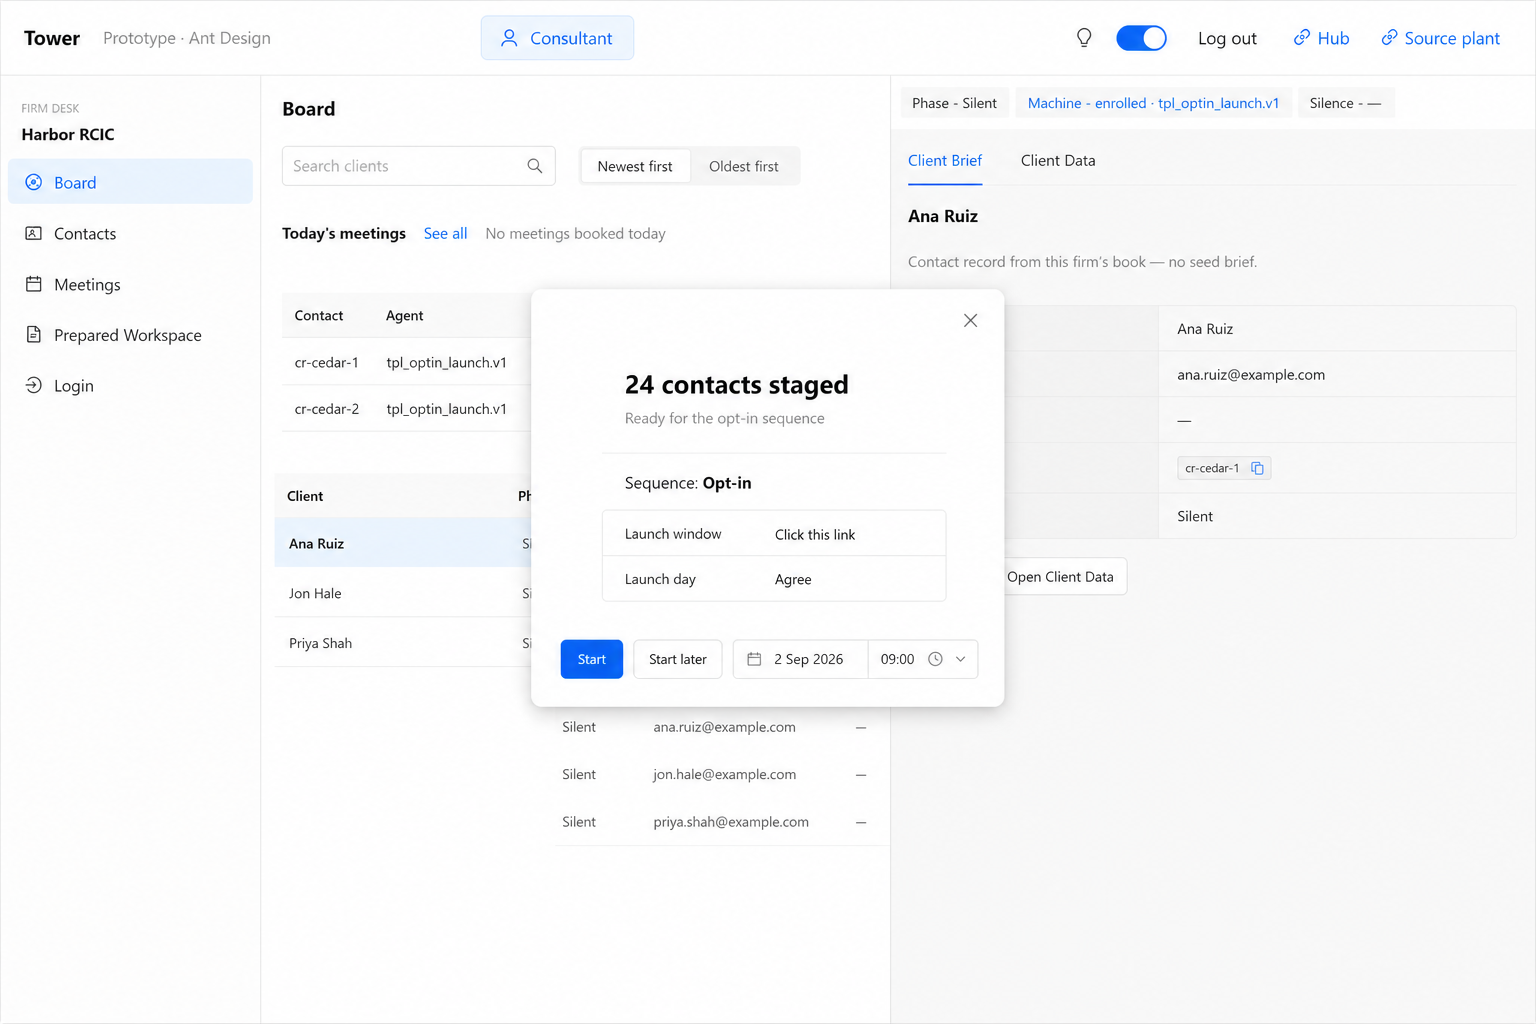
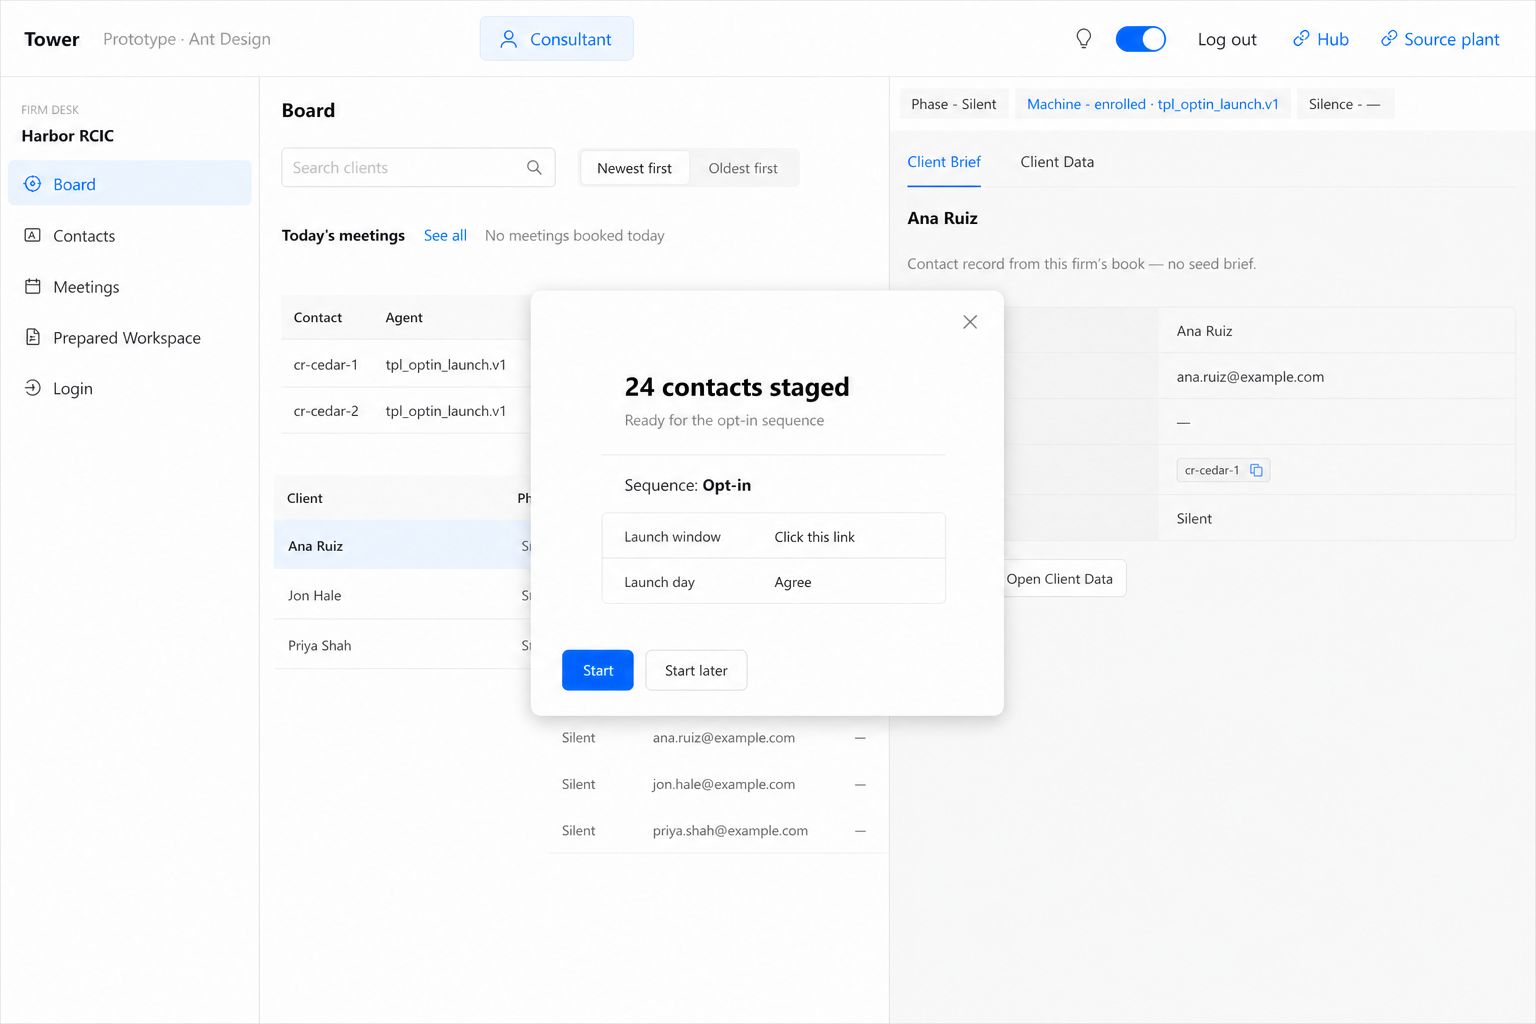
Recut staged plates: nest schedule under Start later; solid bar + Start now
Schedule is hidden until Start later is clicked, then a small popover beneath that button. Minimized bar is solid, with Start now on the right. Still not a packet.

diff --git a/docs/register/CONSULTANT-STAGED-PLATES.md b/docs/register/CONSULTANT-STAGED-PLATES.md
@@ -13,42 +13,55 @@
 
 ## What the founder asked to see
 
-On the consultant workspace: X contacts have been **staged**. A popover. Click it → high-level **sequence** preview. Campaigns and objectives stay obvious as those grains. Bottom: **Start** · **Start later**. Start later **is the schedule** (when it should start automatically) — not “show me later.” **X** at the top closes the popover; the **mode remains minimized at the bottom**.
+On the consultant workspace: X contacts have been **staged**. A popover. High-level **sequence** preview. Campaigns and objectives stay obvious as those grains. Bottom: **Start** · **Start later**. Start later **is the schedule** — not “show me later.” The schedule is **not in view** until Start later is clicked. Then a **small popover beneath Start later** (date + time only, own **X**). Not beside the button. Does not replace the two buttons.
+
+**X** on the big card closes it; the mode **remains at the bottom** as a **solid** bar (cannot miss). **Start now** on the **right** of that bar. Click **Start now** = start. Click the **rest** of the bar = reopen the big popover.
 
 ---
 
-## Canon (two states)
+## Canon (three states)
 
 | # | File | What it is |
 |---|------|------------|
-| **S1** | [`S1-consultant-staged-popover-open.png`](./consultant-blueprint/S1-consultant-staged-popover-open.png) | Open. Count staged. Sequence preview (campaign · objective). **Start** · **Start later**. **X** closes to S2. |
-| **S2** | [`S2-consultant-staged-minimized.png`](./consultant-blueprint/S2-consultant-staged-minimized.png) | After **X**. Mode still at the bottom. Click the bar → S1 again. |
+| **S1** | [`S1-consultant-staged-popover-open.png`](./consultant-blueprint/S1-consultant-staged-popover-open.png) | Open. Count staged. Sequence preview. **Start** · **Start later**. No schedule until S1b. Big **X** closes to S2. |
+| **S1b** | [`S1b-consultant-staged-start-later.png`](./consultant-blueprint/S1b-consultant-staged-start-later.png) | Start later **clicked**. Small popover **beneath** that button: date · time · tiny **X**. Buttons stay. |
+| **S2** | [`S2-consultant-staged-minimized.png`](./consultant-blueprint/S2-consultant-staged-minimized.png) | After big **X**. Solid bar at the bottom. **Start now** at the right. Rest of the bar reopens S1. |
 
-No third PNG. If first appearance after staging should be the **bar** instead of the open card, that is S2 first — say so; do not invent a toast.
+**Prior (wrong — kept so the recut is visible):** [`S1-prior-schedule-inline.png`](./consultant-blueprint/S1-prior-schedule-inline.png) put date/time beside Start later. [`S2-prior-pale-bar.png`](./consultant-blueprint/S2-prior-pale-bar.png) was a pale strip with no Start now. Do not build those.
 
 ---
 
-### S1 — open
+### S1 — open (schedule hidden)
 
 ![S1 open](./consultant-blueprint/S1-consultant-staged-popover-open.png)
 
-**Copy:** Centered popover on the consultant desk. **X** top-right. Count of contacts staged. High-level sequence: name of the sequence, then rows that are still obviously **campaign** and **objective**. Footer **Start** (now) and **Start later** (schedule). Closing does not dismiss the mode.
+**Copy:** Centered popover on the consultant desk. **X** top-right. Count of contacts staged. High-level sequence: name, then rows that are still obviously **campaign** and **objective**. Footer **Start** · **Start later** only. No date. No time.
 
-**Ignore:** **24**. Harbor RCIC. Ana Ruiz / Jon Hale / Priya Shah. Cedar ids. `tpl.optin_launch.v1`. Eligibility / Signals / Motions line. Prepared Workspace · Login. Hub · Source plant. Exact date **2 Sep 2026** / **09:00**. Campaign names **Launch window** / **Launch day** and objectives **Click this link** / **Agree** — example of the opt-in sequence (operator can rename). Teaching if any.
-
-**Paint of the schedule (not locked):** date and time sit on the open card next to Start later so the grain is visible. If Start later should **open** a schedule instead of showing pickers already, recut S1 — do not freeze this layout.
+**Ignore:** **24**. Harbor RCIC. Ana Ruiz / Jon Hale / Priya Shah. Cedar ids. `tpl.optin_launch.v1`. Prepared Workspace · Login. Hub · Source plant. Campaign names **Launch window** / **Launch day** and objectives **Click this link** / **Agree** — example of the opt-in sequence (operator can rename).
 
 Start’s sequence **is** opt-in. Not a picker of three.
 
 ---
 
-### S2 — minimized
+### S1b — Start later clicked
+
+![S1b Start later](./consultant-blueprint/S1b-consultant-staged-start-later.png)
+
+**Copy:** Same card. Start later is selected. A **small** popover attaches **beneath** Start later. It houses **date** and **time** only. Its own tiny **X** closes the small popover (the big card stays). Does not appear beside the buttons. Does not replace Start · Start later.
+
+**Ignore:** Exact date **2 Sep 2026** / **09:00**. Same scenery as S1.
+
+---
+
+### S2 — minimized (solid bar)
 
 ![S2 minimized](./consultant-blueprint/S2-consultant-staged-minimized.png)
 
-**Copy:** Same desk. Popover gone. A bar at the **bottom** still says contacts are staged. It stays until they Start (or Start later has a time). Click / chevron returns to S1.
+**Copy:** Same desk. Big popover gone. A **solid** color bar at the **bottom** (cannot miss — not a pale wash). Count + staged on the left. **Start now** at the **right**, inside the bar. Click **Start now** = the Start operation. Click **inside the bar but not the button** = reopen S1.
 
-**Ignore:** Same live scenery as S1. Exact bar copy beyond the grain (count + staged + this sequence).
+**Ignore:** Same live scenery as S1. Exact bar copy beyond the grain (count + staged + this sequence). Exact blue hex.
+
+**Start** on S1 and **Start now** on S2 are the **same** operation.
 
 ---
 
@@ -57,14 +70,15 @@ Start’s sequence **is** opt-in. Not a picker of three.
 - Consultant person, their workspace (T4).
 - After staged: popover with a high-level sequence overview (campaign + objective still obvious).
 - **Start** · **Start later**. Start later = **schedule**, not snooze.
-- **X** minimizes. Mode remains at the bottom.
+- Schedule **hidden** until Start later is clicked. Then a small popover **beneath** Start later: date + time + tiny X. Not beside. Does not replace the two buttons.
+- Big **X** minimizes. Mode remains at the bottom as a **solid** bar. **Start now** on the right of that bar. Rest of the bar reopens the card.
 
 ## Specified but not clear (do not invent in a packet)
 
 - Whether the **first** appearance is S1 (opens itself) or S2 (bar; click to open).
-- Start later **control**: pickers on the open card vs Start later opens a nested schedule.
-- Exact copy (“staged” vs “ready” vs “can be sequenced”).
-- Whether the bar can be dismissed for good without Start — founder said X **leaves it**. Do not add a second dismiss.
+- Exact copy (“staged” vs “ready” vs “can be sequenced”). **Start** vs **Start now** wording — same operation; do not invent two.
+- Whether the bar can be dismissed for good without Start — founder said X **leaves it**. Do not add a second dismiss on S2.
+- Confirming a scheduled time (does picking date/time arm it, or is there a confirm in the small popover). Do not invent a third button in S1b.
 
 ---
 
@@ -73,4 +87,5 @@ Start’s sequence **is** opt-in. Not a picker of three.
 - Packet until they agree.
 - Freeze Launch window / Launch day / Click this link / Agree as types.
 - Put Operator / Contact switcher on the consultant person.
+- Restore the inline schedule beside Start later.
 - Recut 015. Overwrite 15:43. Plant. Mint tables.

diff --git a/docs/register/PHASE-TWO-LOG.md b/docs/register/PHASE-TWO-LOG.md
@@ -2,7 +2,7 @@
 
 **Purpose:** Running log so a new agent can start where we stopped. Thesis stays in [`PHASE-TWO.md`](./PHASE-TWO.md). Nothing is more important than this file staying current.
 
-**Current (read first, then the newest stamp at the bottom):** Agents **flagship** = 2026-08-15 15:43 UTC. **Working §1.** Expanded: [`LAUNCH-1-NOTHING-TO-OPT-IN.md`](./LAUNCH-1-NOTHING-TO-OPT-IN.md). Confirm **look** plates (not a packet): [`CONSULTANT-STAGED-PLATES.md`](./CONSULTANT-STAGED-PLATES.md) **S1** open · **S2** minimized. Packet only if founder agrees. Engineer pickup still [`WORKSPACE-UNTIL-OPT-OUT-PACKET.md`](./WORKSPACE-UNTIL-OPT-OUT-PACKET.md) until a launch packet locks. Recut = new packet. Do not plant.
+**Current (read first, then the newest stamp at the bottom):** Agents **flagship** = 2026-08-15 15:43 UTC. **Working §1.** Expanded: [`LAUNCH-1-NOTHING-TO-OPT-IN.md`](./LAUNCH-1-NOTHING-TO-OPT-IN.md). Confirm **look** plates (not a packet): [`CONSULTANT-STAGED-PLATES.md`](./CONSULTANT-STAGED-PLATES.md) **S1** open · **S1b** Start later nest · **S2** solid bar + Start now. Packet only if founder agrees. Engineer pickup still [`WORKSPACE-UNTIL-OPT-OUT-PACKET.md`](./WORKSPACE-UNTIL-OPT-OUT-PACKET.md) until a launch packet locks. Recut = new packet. Do not plant.
 
 **How we maintain this log**
 
@@ -2734,6 +2734,18 @@ Flag 15:43 untouched.
 **Not locked:** first appearance = open card vs bottom bar; Start later pickers on the card vs nested. Example: **24**, Launch window / Click this link · Launch day / Agree.
 
 **Do not:** packet until they agree; freeze campaign names; recut 015; overwrite 15:43; plant; mint tables.
+
+Flag 15:43 untouched.
+
+---
+
+## 2026-08-26 09:51 UTC — Recut staged plates: nest the schedule; solid bar + Start now.
+
+**Why:** Founder: regenerate. S1 — schedule **not in view** until Start later is **clicked**. Then a **small** popover **beneath** Start later (date + time, own X). Not beside. Does not replace the two buttons. S2 — bar must be **solid** (cannot miss). **Start now** at the **right** inside that bar. Click Start now = start. Click the rest of the bar = reopen the card.
+
+**Plates:** [`CONSULTANT-STAGED-PLATES.md`](./CONSULTANT-STAGED-PLATES.md) · **S1** · **S1b** · **S2**. Priors kept: inline schedule · pale bar. Do not build the priors.
+
+**Do not:** packet until they agree; recut 015; overwrite 15:43; plant; mint tables.
 
 Flag 15:43 untouched.
 

diff --git a/docs/register/CONFIRM-READY-DEFERRED.md b/docs/register/CONFIRM-READY-DEFERRED.md
@@ -2,7 +2,7 @@
 
 **Seat:** Product Manager.  
 **Not a packet.** Do not hand this to the engineer this sprint.  
-**Plates (look only, 2026-08-26):** [`CONSULTANT-STAGED-PLATES.md`](./CONSULTANT-STAGED-PLATES.md) — **S1** open · **S2** minimized. Packet only if the founder agrees with those plates. Recut = **new packet**. Do not mutate this reminder into the packet.  
+**Plates (look only, 2026-08-26 recut):** [`CONSULTANT-STAGED-PLATES.md`](./CONSULTANT-STAGED-PLATES.md) — **S1** open · **S1b** Start later nest · **S2** solid bar + Start now. Packet only if the founder agrees. Recut = **new packet**. Do not mutate this reminder into the packet.  
 **Flag:** [`PHASE-TWO-LOG.md`](./PHASE-TWO-LOG.md) **15:43 UTC** — do not overwrite.  
 **Does not:** plant; recut 015; mint tables; replace Start as an operation; freeze Launch window / Launch day as types.
 
@@ -16,8 +16,8 @@ Founder 2026-08-26 (look, not packet):
 
 - Popover on **their** workspace (consultant person, T4).
 - **X** staged. Click the popover → high-level **sequence** preview (campaigns + objectives still obvious).
-- **Start** · **Start later**. Start later = **schedule when it starts automatically**, not “show me later.”
-- **X** at the top closes; the mode **remains minimized at the bottom**.
+- **Start** · **Start later**. Start later = **schedule when it starts automatically**, not “show me later.” Schedule **hidden** until Start later is clicked → small popover **beneath** that button (date + time + tiny X). Not beside. Does not replace the buttons.
+- Big **X** closes; the mode **remains** as a **solid** bar at the bottom. **Start now** on the **right** of that bar. Rest of the bar reopens the card.
 
 Prior reminder (do not restore “show me later”): a pop-up, then a middle modal, Start · Show me later, preview maybe. That **later** grain was recut to **schedule**.
 

diff --git a/AGENTS.md b/AGENTS.md
@@ -43,9 +43,9 @@ You are Tower’s **Product Manager**. You are not the Systems Analyst. You are 
 | What | Where |
 |------|--------|
 | Packets | `docs/register/*-PACKET.md` — listed in [`NODE-INTERIOR.md`](docs/register/NODE-INTERIOR.md) |
-| Confirm look (not a packet) | [`CONSULTANT-STAGED-PLATES.md`](docs/register/CONSULTANT-STAGED-PLATES.md) — S1 open · S2 minimized. Packet only if founder agrees. Reminder: [`CONFIRM-READY-DEFERRED.md`](docs/register/CONFIRM-READY-DEFERRED.md) |
+| Confirm look (not a packet) | [`CONSULTANT-STAGED-PLATES.md`](docs/register/CONSULTANT-STAGED-PLATES.md) — S1 open · S1b Start later nest · S2 solid bar + Start now. Packet only if founder agrees. Reminder: [`CONFIRM-READY-DEFERRED.md`](docs/register/CONFIRM-READY-DEFERRED.md) |
 | Face laws | [`AUTOMATIONS-FACE.md`](docs/register/AUTOMATIONS-FACE.md) · [`AGENTS-FACE.md`](docs/register/AGENTS-FACE.md) |
-| Plates | `docs/register/automations-blueprint/` (A22–A40) · `agents-blueprint/` · `consultant-blueprint/` (S1–S2, not a packet) · lineups in `*-UI-BLUEPRINT.md` |
+| Plates | `docs/register/automations-blueprint/` (A22–A40) · `agents-blueprint/` · `consultant-blueprint/` (S1 · S1b · S2, not a packet) · lineups in `*-UI-BLUEPRINT.md` |
 | Primitives | [`PRIMITIVES.md`](docs/register/PRIMITIVES.md) |
 | SA 015 | PR [#86](https://github.com/bywale-com/omcoda_tower/pull/86) — do not recut |
 | Engineer seat | PR [#106](https://github.com/bywale-com/omcoda_tower/pull/106) until merged |
